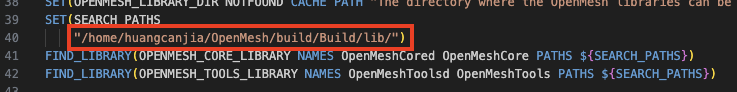
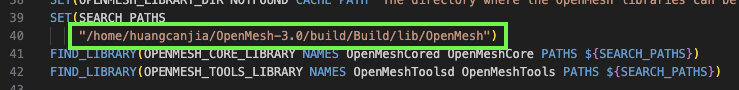
update

diff --git a/4-Rosy-Complex-Poly/README.md b/4-Rosy-Complex-Poly/README.md
@@ -1,0 +1,68 @@
+# 4-Rosy-Complex-Poly 项目配置记录
+
+本文档为配置文章 **"Designing N-PolyVector Fields with Complex Polynomials"** 的基于 **OpenMesh** 的复现版本 [LucasGao2000/4-Rosy-Complex-Poly](https://github.com/LucasGao2000/4-Rosy-Complex-Poly) 的记录，原文章作者提供的代码的配置记录见 [nPV 项目配置记录](../nPV/)
+
+---
+
+Canjia Huang <<canjia7@gmail.com>> last update 26/3/2025
+
+# :penguin: Ubuntu
+
+- 操作系统：Ubuntu 20.04.5 LTS
+
+## 配置步骤
+
+1. 将项目下载到本地：
+
+    ```
+    git clone https://github.com/LucasGao2000/4-Rosy-Complex-Poly.git
+    ```
+
+    进入项目目录：
+
+    ```
+    cd 4-Rosy-Complex-Poly
+    ```
+
+2. 新建编译目录并进入：
+
+    ```
+    mkdir build
+    cd build
+    ```
+
+3. 使用 CMake 进行 configure：
+
+    ```
+    cmake -DCMAKE_BUILD_TYPE=Release ..
+    ```
+
+4. 编译：
+
+    ```
+    make
+    ```
+
+    - :warning: 可能出现错误 `OpenMesh/Core/Mesh/Handles.hh: No such file or directory`
+
+        这是因为作者在 “4-Rosy-Complex-Poly/CMakeLists.txt” 中是直接设置 **OpenMesh** 库所在目录，并不是通过查找库来设置的
+
+        首先需要安装 **OpenMesh** 库，具体可以参考 [OpenMesh 库配置记录](../OpenMesh/)
+
+        安装完成后，修改 “4-Rosy-Complex-Poly/CMakeLists.txt” 文件的 Line 9-10 为实际安装 **OpenMesh** 库的相应目录，如我这里修改绿框处（具体路径依据实际情况而定）：
+
+        ![image](.pic/image.png)
+
+        修改并保存后，重新使用 CMake 进行 configure 并编译
+
+5. 编译完成后会在 “4-Rosy-Complex-Poly/build/” 目录下生成 “4-ROSY” 可执行文件
+
+## 测试
+
+1. 直接运行编译生成的可执行文件 “4-ROSY”：
+
+    ```
+    ./4-ROSY
+    ```
+
+2. 该可执行文件会直接将 “../data/woody.obj” 文件为参考网格，生成该网格的 4-RoSy field，存储在 “../data/cf.obj” 文件中，可以用 **MeshLab** 进行可视化

diff --git a/OpenMesh/README.md b/OpenMesh/README.md
@@ -52,11 +52,11 @@ Canjia Huang <<canjia7@gmail.com>> last update 18/3/2025
     
     - 4.2 如果没有 root 权限，可能会安装失败，此时如果要在其他 CMake 项目中添加 OpenMesh 库，可以按如下操作（此处的示例项目为 [libQEx](https://github.com/hcebke/libQEx/blob/master/cmake/FindOpenMesh.cmake)，其中寻找 OpenMesh 的文件为 [libQEx/cmake/FindOpenMesh.cmake](https://github.com/hcebke/libQEx/blob/master/cmake/FindOpenMesh.cmake)）：
 
-        1. 修改该项目中的 “FindOpenMesh.cmake” 文件，在其中寻找 `OPENMESH_INCLUDE_DIR` 变量的目录中添加 “xxx/OpenMesh/src 的目录（这里的 XXX 需要替换为实际目录，这个例子里面，添加的目录下需要有 “OpenMesh/Core/Mesh/PolyMeshT.hh” 文件），示例如下（红框处为需要添加的部分）：
+        1. 修改该项目中的 “FindOpenMesh.cmake” 文件，在其中寻找 `OPENMESH_INCLUDE_DIR` 变量的目录中添加 “xxx/OpenMesh/src 的目录（这里的 XXX 需要替换为实际目录，这个例子里面，添加的目录下需要有 “OpenMesh/Core/Mesh/PolyMeshT.hh” 文件），示例如下（绿框处为需要添加的部分）：
 
             ![image](.pic/image.png)
 
-        2. 修改该项目中的 “FindOpenMesh.cmake” 文件，在其中寻找 `OPENMESH_CORE_LIBRARY` 和 `OPENMESH_TOOLS_LIBRARY` 的目录中添加 "xxx/OpenMesh/build/Build/lib/" 的目录（这里的 XXX 需要替换为实际目录），示例如下（红框处为需要添加的部分）：
+        2. 修改该项目中的 “FindOpenMesh.cmake” 文件，在其中寻找 `OPENMESH_CORE_LIBRARY` 和 `OPENMESH_TOOLS_LIBRARY` 的目录中添加 "xxx/OpenMesh/build/Build/lib/" 的目录（这里的 XXX 需要替换为实际目录），示例如下（绿框处为需要添加的部分）：
 
             ![image](.pic/image1.png)
 

diff --git a/README.md b/README.md
@@ -17,6 +17,10 @@ An environment configuration record concerning academic papers, third-party libr
   - [CGNS] - :apple: [macOS 15.3]
   - [OpenFOAM] - :apple: [macOS 15.3]
 
+- Field
+  - [4-Rosy-Complex-Poly] - :penguin: [Ubuntu 20.04.5 LTS]
+  - [nPV] - :no_entry_sign: [configuring]
+
 - Hexahedral
   - [QGP3D] - :penguin: [Ubuntu 20.04.6 LTS]
 
@@ -59,7 +63,6 @@ An environment configuration record concerning academic papers, third-party libr
 
 - Other Projects
   - [LpCVT] - :apple: [macOS 15.3.1] :penguin: [Ubuntu latest] :computer: [Windows 10]
-  - [nPV] - :no_entry_sign: [configuring]
   - [PCO] - :penguin: [Ubuntu 20.04.6 LTS] :computer: [Windows 10]
 
 - 远程服务器代理设置
@@ -72,6 +75,7 @@ An environment configuration record concerning academic papers, third-party libr
 </a>
 
 [1-Lipschitz Neural Distance Fields]: 1-Lipschitz-Neural-Distance-Fields-Ubuntu20.04.6/
+[4-Rosy-Complex-Poly]: 4-Rosy-Complex-Poly/
 [AntTweakBar]: AntTweakBar/
 [CGNS]:CGNS/
 [Eigen]: Eigen/
@@ -86,6 +90,7 @@ An environment configuration record concerning academic papers, third-party libr
 [MCS]: MCS/
 [NeurCADRecon]: NeurCADRecon/
 [NH-Rep]: NH-Rep/
+[nPV]: nPV/
 [OCCT]: OCCT/
 [OpenEXR]: OpenEXR/
 [OpenFOAM]: OpenFOAM/

diff --git a/nPV/README.md b/nPV/README.md
@@ -21,7 +21,7 @@ Other implementation: [LucasGao2000/4-Rosy-Complex-Poly](https://github.com/Luca
 
 ---
 
-Canjia Huang <<canjia7@gmail.com>> last update 25/3/2025
+Canjia Huang <<canjia7@gmail.com>> last update 26/3/2025
 
 # :penguin: Ubuntu
 
